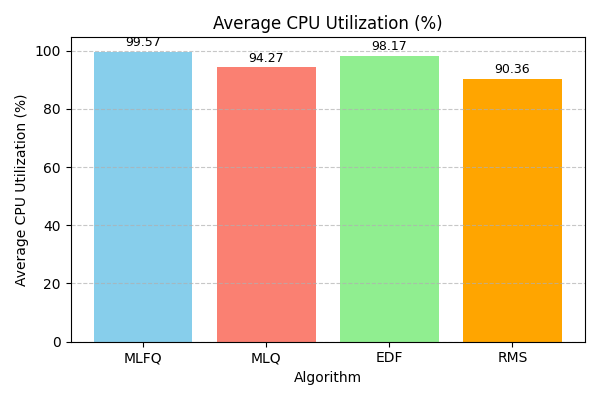
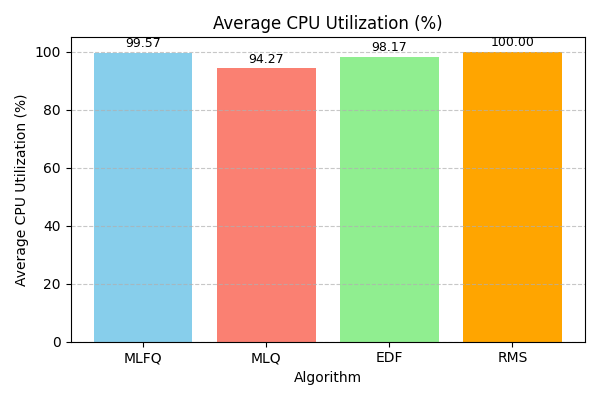
WIP

diff --git a/MLFQ/MLFQ.py b/MLFQ/MLFQ.py
@@ -41,7 +41,7 @@ class MLFQ:
             if queue0:
                 process = queue0.pop(0)
                 time_slice = min(self.Q0, process.remaining)
-                for t in range(time_slice):
+                for _ in range(time_slice):
                     current_time += 1
                     process.remaining -= 1
 
@@ -59,14 +59,14 @@ class MLFQ:
                     process.completed = True
                     processed.append(process)
                     process.queueLevel = -1
-                continue
+                # continue
             
             # Check queue 1
             elif queue1:
                 process = queue1.pop(0)
                 time_slice = min(self.Q1, process.remaining)
                 preempted = False
-                for t in range(time_slice):
+                for _ in range(time_slice):
                     current_time += 1
                     process.remaining -= 1
 
@@ -91,7 +91,7 @@ class MLFQ:
                     process.completed = True
                     processed.append(process)
                     process.queueLevel = -1
-                continue
+                # continue
 
             # Check queue 2 (lowest priority)
             elif queue2:
@@ -120,7 +120,7 @@ class MLFQ:
                 process.completed = True
                 processed.append(process)
                 process.queueLevel = -1
-                continue
+                # continue
             
             # all queues are empty, find the next process to arrive
             else:
@@ -136,7 +136,7 @@ def generate_processes(num_processes):
     processes = []
     for pid in range(1, num_processes + 1):
         arrival = random.randint(0, 10)  # Random arrival time
-        burst = random.randint(1,10)     # Random burst time
+        burst = random.randint(1, 10)     # Random burst time
         processes.append(Process(pid, arrival, burst))
     return processes
 
@@ -153,7 +153,7 @@ def main():
     total_cpu_utilization = 0
     num_simulations = 10
 
-    for x in range(1, num_simulations + 1):
+    for _ in range(1, num_simulations + 1):
 
         # Generate random processes
         processes = generate_processes(10)
@@ -181,7 +181,7 @@ def main():
         avg_turnaround = turnaround /len(processes)
         avg_waiting = waiting /len(processes)
 
-        total_completion_time = sum(p.completion for p in processed)
+        # total_completion_time = sum(p.completion for p in processed)
         total_execution_time = sum(p.burst for p in processed)
 
         throughput = len(processed)/max(p.completion for p in processed)

diff --git a/graphs.py b/graphs.py
@@ -9,10 +9,10 @@ choice = int(input("Enter your choice: "))
 if choice == 1:
     data = {
     "Algorithm": ["MLFQ", "MLQ", "EDF", "RMS"],
-    "Average Turnaround Time": [27.86, 30.72, 11.13, 15.10],
-    "Average Waiting Time": [22.72, 25.12, 8.14, 12.10],
-    "Average Throughput": [0.20, 0.1755, 0.34, 0.2889],
-    "Average CPU Utilization (%)": [99.57, 94.27, 98.17, 92.00]
+    "Average Turnaround Time": [27.86, 30.72, 11.13, 43.40],
+    "Average Waiting Time": [22.72, 25.12, 8.14, 19.00],
+    "Average Throughput": [0.20, 0.1755, 0.34, 0.1533],
+    "Average CPU Utilization (%)": [99.57, 94.27, 98.17, 100.00]
 }
     df = pd.DataFrame(data)
 
@@ -44,11 +44,11 @@ elif choice == 2:
 
     data = {
     "Algorithm": ["MLFQ", "MLQ", "EDF", "RMS"],
-    "Average Turnaround Time": [27.86, 30.72, 11.13, 15.10],
-    "Average Waiting Time": [22.72, 25.12, 8.14, 12.10],
-    "Average Throughput": [0.20, 0.1755, 0.34, 0.2889],
-    "Average CPU Utilization (%)": [99.57, 94.27, 98.17, 92.00]
-    }
+    "Average Turnaround Time": [27.86, 30.72, 11.13, 43.40],
+    "Average Waiting Time": [22.72, 25.12, 8.14, 19.00],
+    "Average Throughput": [0.20, 0.1755, 0.34, 0.1533],
+    "Average CPU Utilization (%)": [99.57, 94.27, 98.17, 100.00]
+}
 
     df = pd.DataFrame(data)
 
@@ -73,10 +73,10 @@ elif choice == 3:
     # Input data
     data = {
     "Algorithm": ["MLFQ", "MLQ", "EDF", "RMS"],
-    "Average Turnaround Time": [27.86, 30.72, 11.13, 15.10],
-    "Average Waiting Time": [22.72, 25.12, 8.14, 12.10],
-    "Average Throughput": [0.20, 0.1755, 0.34, 0.2889],
-    "Average CPU Utilization (%)": [99.57, 94.27, 98.17, 92.00]
+    "Average Turnaround Time": [27.86, 30.72, 11.13, 43.40],
+    "Average Waiting Time": [22.72, 25.12, 8.14, 19.00],
+    "Average Throughput": [0.20, 0.1755, 0.34, 0.1533],
+    "Average CPU Utilization (%)": [99.57, 94.27, 98.17, 100.00]
 }
     df = pd.DataFrame(data)
 
